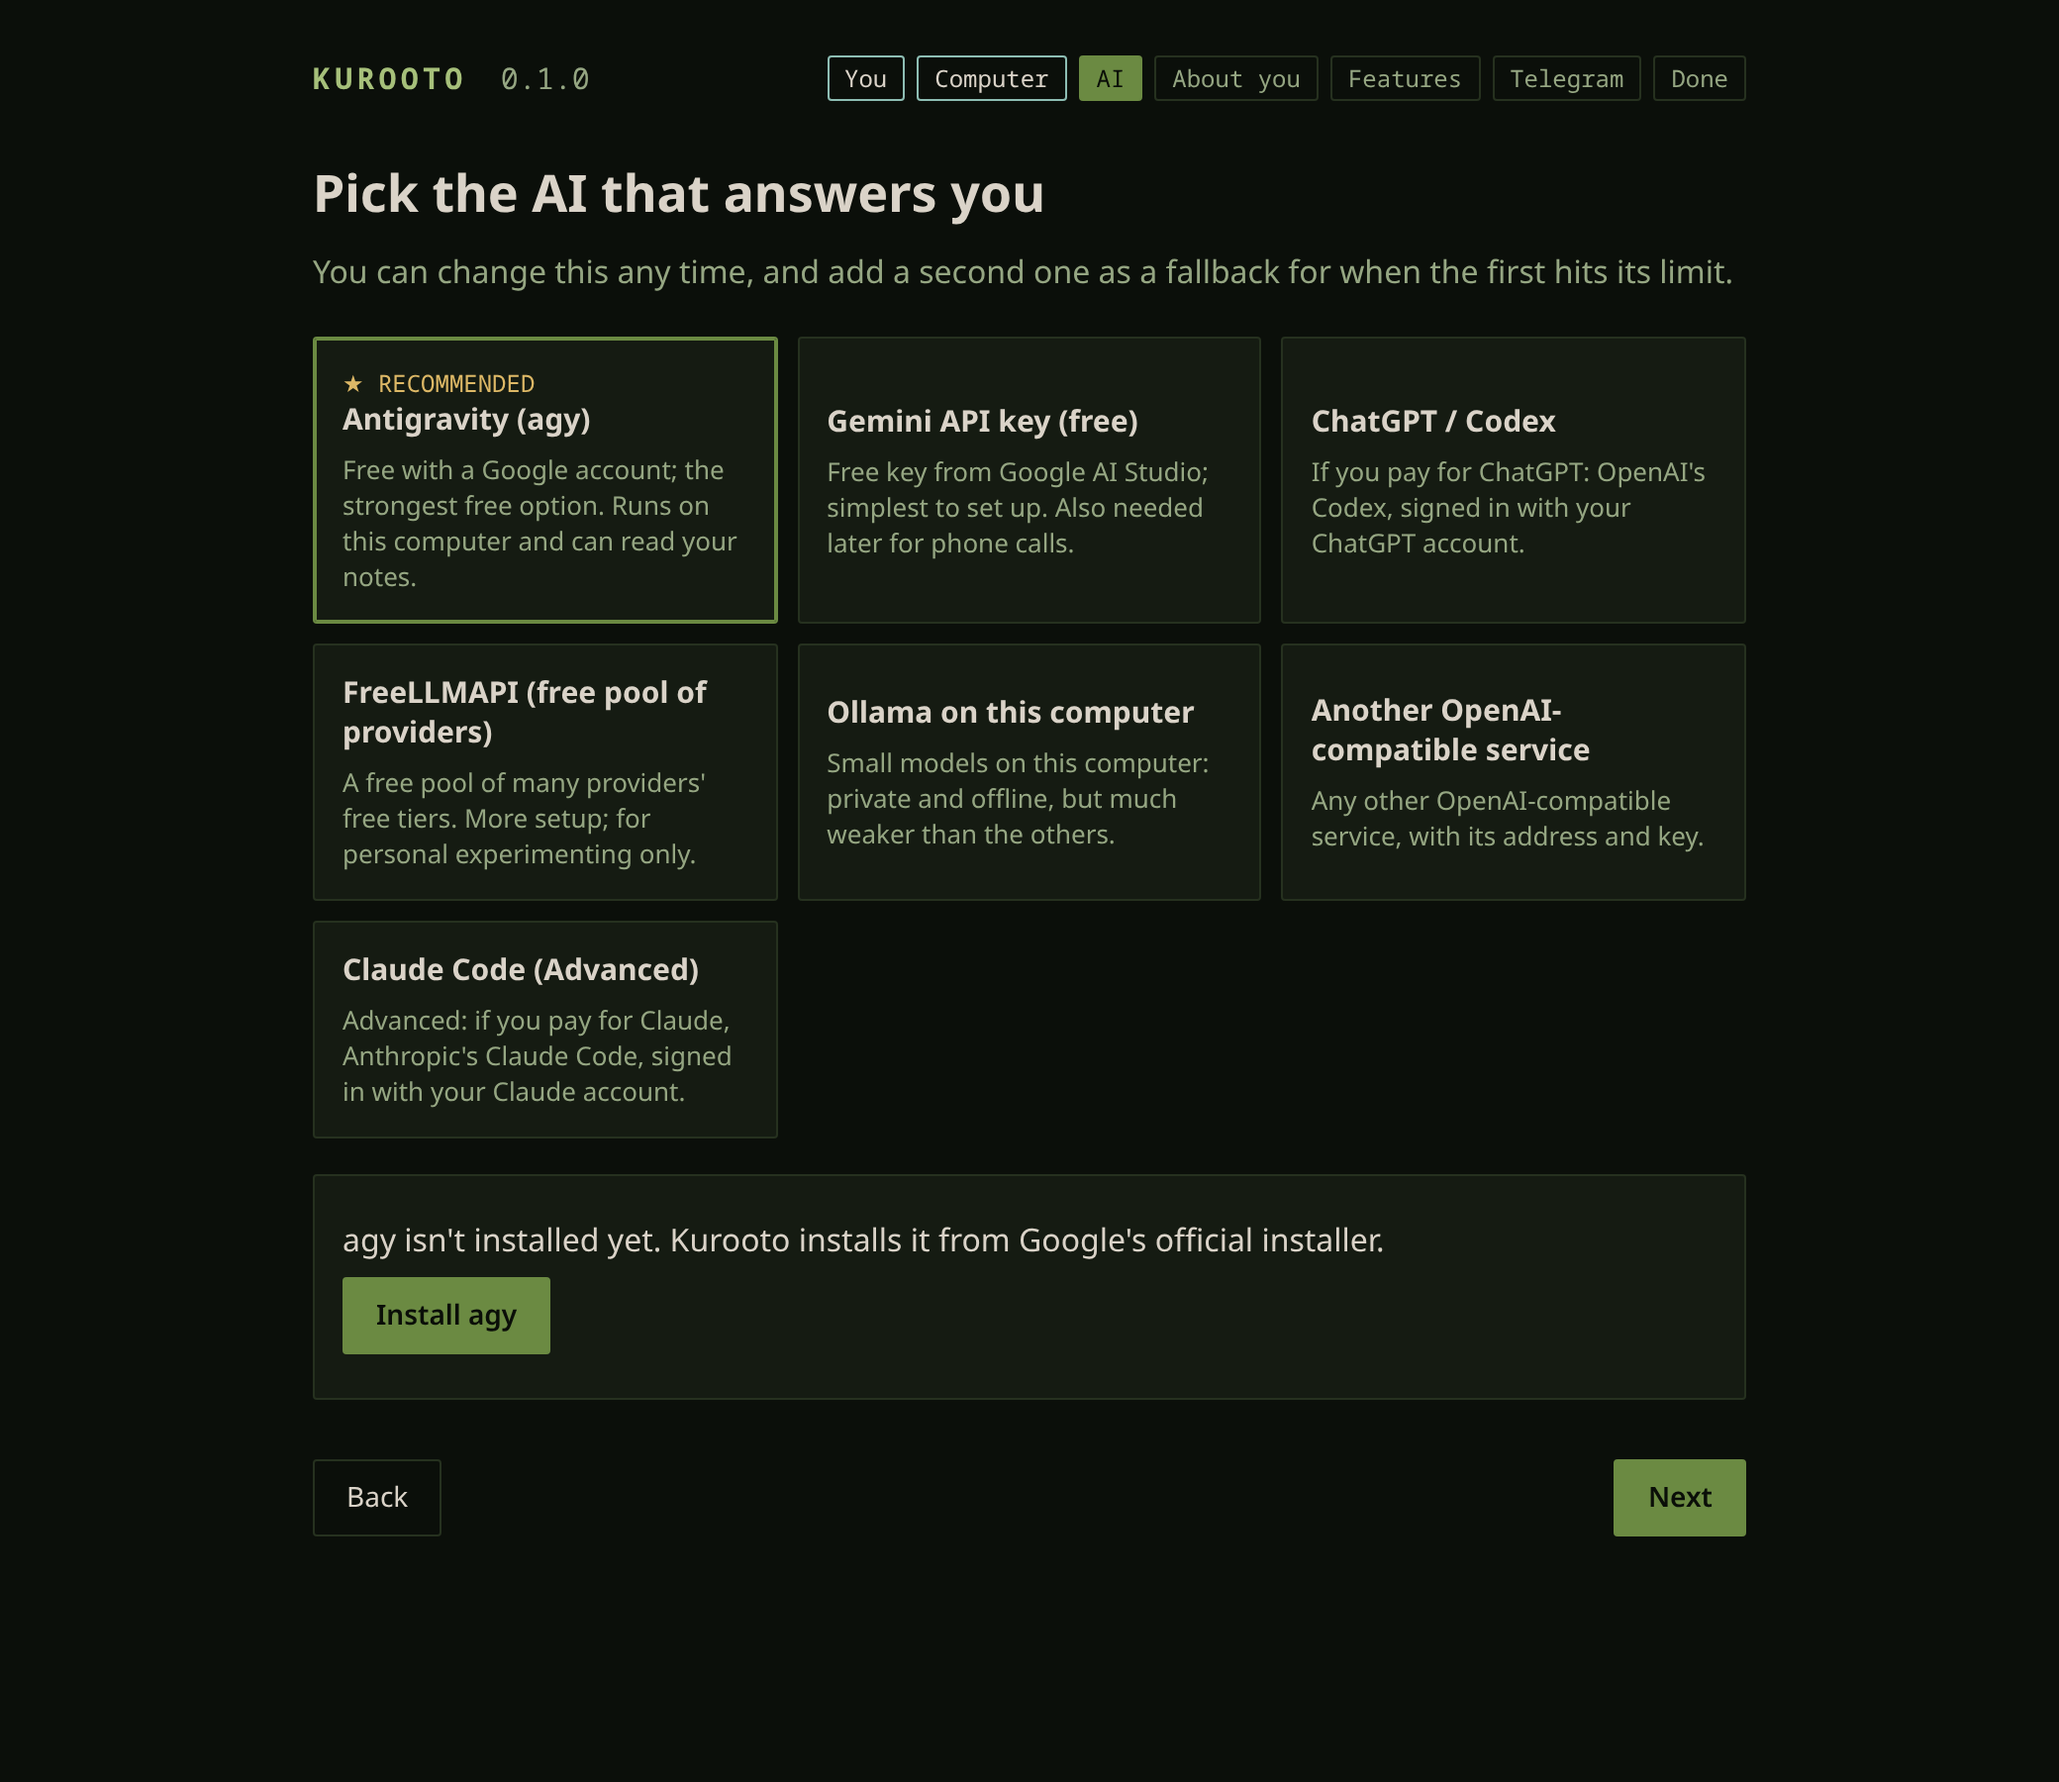
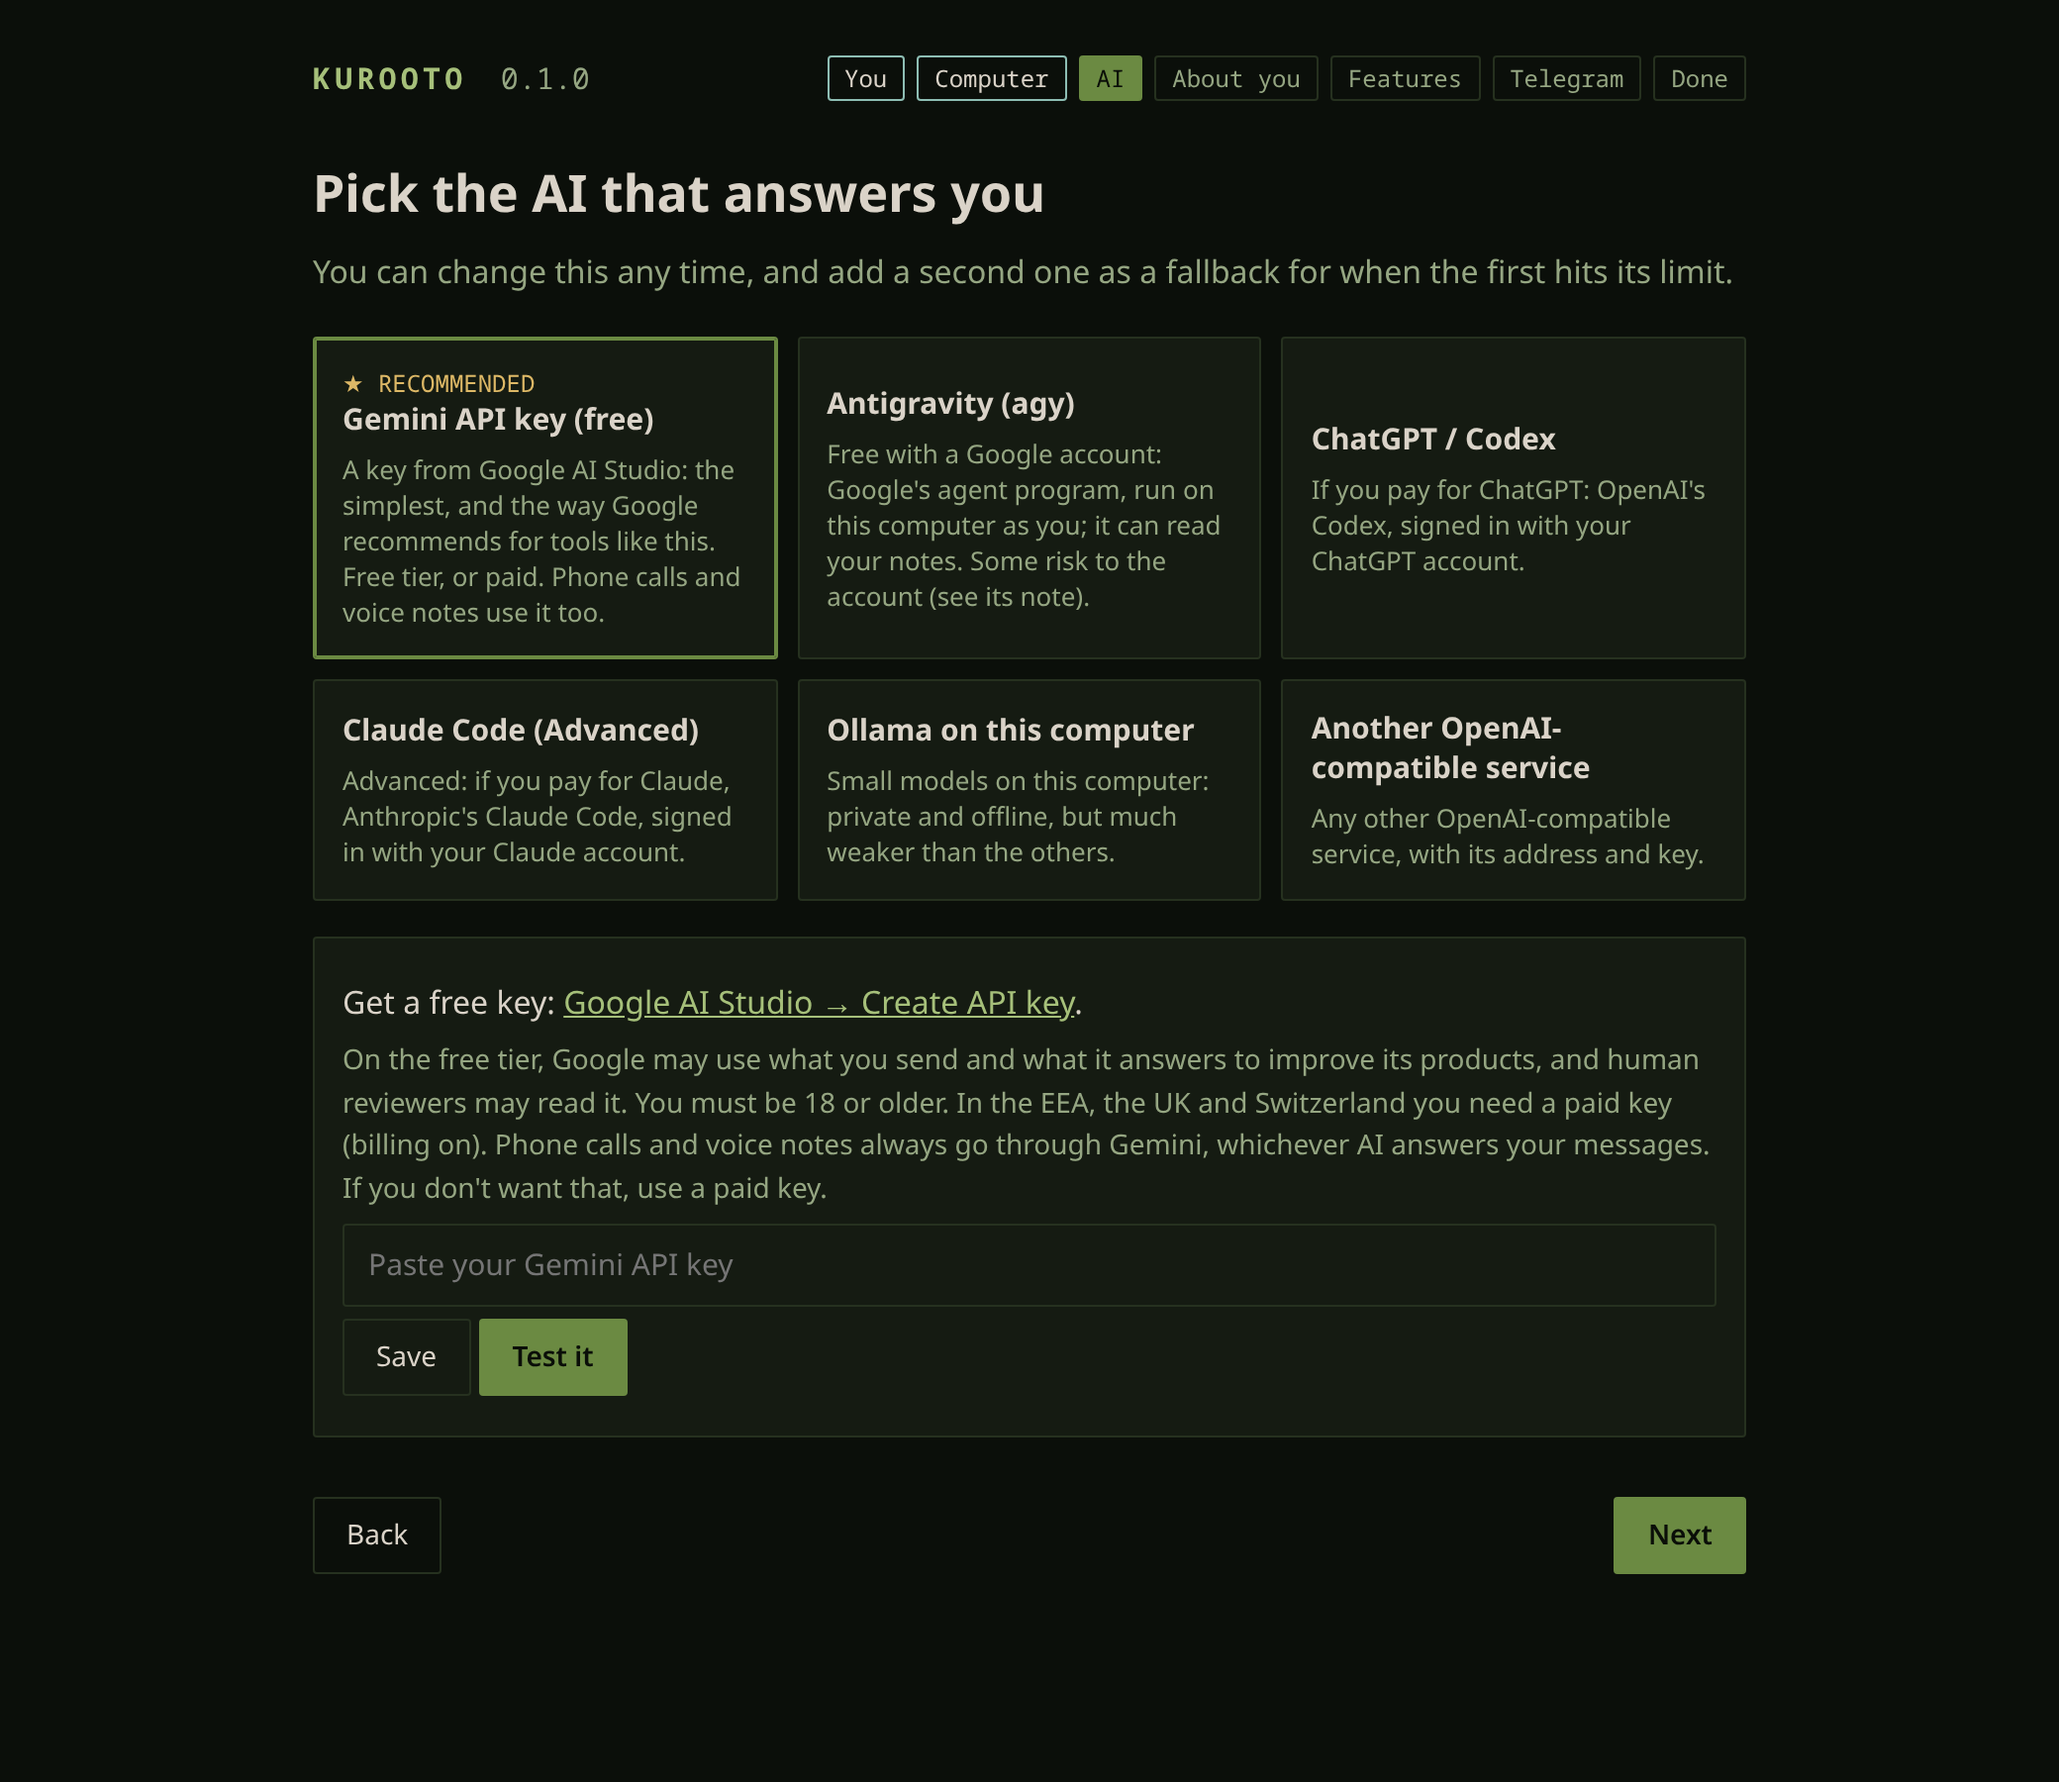
Showcase follow-ups: the Gemini key in the screenshots, docs merged into the manual
The example chat's AI answer carries the Gemini key's label, and the setup screenshots show the new
recommendation (re-rendered from the current wizard). The colours setting is in the manual's dashboard section,
the changelog has a Look part, PRIVACY says the screenshots are made-up data, and docs/next is gone. The
confidential mail page follows look.palette too; the landing page lists the Gemini key first.

diff --git a/installer/index.html b/installer/index.html
@@ -314,7 +314,7 @@ h1, h2, h3 { color: var(--text-bright); font-weight: 700; }
         <article class="interest-card"><span class="interest-num">02</span><h3 class="interest-title">It calls you</h3>
           <p class="interest-desc">Real voice calls on your own free call line: check-ins, reminders and a morning alarm, on Android or iPhone.</p></article>
         <article class="interest-card"><span class="interest-num">03</span><h3 class="interest-title">Your choice of AI</h3>
-          <p class="interest-desc">Antigravity, a free Gemini key, ChatGPT/Codex, Claude Code, FreeLLMAPI or local models with Ollama, with a fallback.</p></article>
+          <p class="interest-desc">A Gemini API key (recommended), Antigravity, ChatGPT/Codex, Claude Code, FreeLLMAPI or local models with Ollama, with a fallback.</p></article>
         <article class="interest-card"><span class="interest-num">04</span><h3 class="interest-title">Deadlines and study</h3>
           <p class="interest-desc">Subjects and timetable, a deadline radar, spaced-repetition quizzes, study time tracking and after-class notes.</p></article>
         <article class="interest-card"><span class="interest-num">05</span><h3 class="interest-title">Notes it can search</h3>

diff --git a/src/kurooto/web/static/confidential.html b/src/kurooto/web/static/confidential.html
@@ -1,5 +1,5 @@
 <!doctype html>
-<html lang="en">
+<html lang="en" data-palette="{{PALETTE}}">
 <head>
 <meta charset="utf-8">
 <meta name="viewport" content="width=device-width, initial-scale=1">

diff --git a/src/kurooto/web/server.py b/src/kurooto/web/server.py
@@ -136,8 +136,7 @@ class Server:
                     html = server.fill((static("morning.html") or b"").decode())
                     return self._send(200, html.encode(), TYPES[".html"])
                 if path == "/confidential":  # confidential mail summarised on this computer (google): read-only
-                    html = (static("confidential.html") or b"").decode()
-                    html = html.replace("{{TOKEN}}", server.token).replace("{{VERSION}}", __version__)
+                    html = server.fill((static("confidential.html") or b"").decode())
                     return self._send(200, html.encode(), TYPES[".html"])
                 if path in ("/", "/setup"):
                     done = server.app.settings.get("setup.done")

diff --git a/tests/unit/test_showcase.py b/tests/unit/test_showcase.py
@@ -25,7 +25,7 @@ def palette(page: str) -> str:
 
 def test_kuro_by_default_rose_on_request(web):
     app, srv = web
-    for path in ("/setup", "/morning"):
+    for path in ("/setup", "/morning", "/confidential"):
         code, page = call(srv, path, token=False)
         assert code == 200 and palette(page) == "kuro" and "{{" not in page
     app.settings.set("setup.done", True)

diff --git a/CHANGELOG.md b/CHANGELOG.md
@@ -98,7 +98,16 @@ Many new features, each off until you turn it on. The [manual](docs/MANUAL.md) h
 - Your add-ons: your own features, skills, prompts and default settings from a folder of yours.
 - On Linux, the dashboard only answers your own user account.
 
+**Look**
+- Kurooto's pages are deep green now, like the website: the setup page, the dashboard (its drawings too), the morning
+  page, and your call line's pages and icon. The old colours stay available: Settings → Look → `look.palette` = `rose`.
+- Warnings and errors have their own colours (amber and red), never the accent colour.
+- The dashboard's ring gives every feature a short label and its own colour.
+- The README and the website show the dashboard, the setup page, the morning page and your phone, from a demo with
+  made-up data.
+
 **Fixes**
+- The phone's call page: the "Waiting for you" link no longer grows to fill the screen.
 - "skip Friday's check-in" (and "no calls on Friday", "skipping LA on Friday") changed today's instead.
 - The phone app only ever got rings; the phone channel is now wired up.
 - The notes brain's sync no longer holds up the rest of Kurooto, and GBrain no longer checks for its own updates.

diff --git a/docs/MANUAL.md b/docs/MANUAL.md
@@ -1073,6 +1073,11 @@ that pulses when something happens; NOTES is a map of your notes and their links
 The **morning page** (`http://127.0.0.1:8770/morning`) shows today's plan from your daily note, with your classes,
 calendar, what's due, check-ins and open questions. The alarm opens it.
 
+**Colours:** Kurooto's pages (the setup page, the dashboard, the morning page, and your call line's pages on the phone)
+use deep greens, like the website. If you liked the earlier pink and rose colours better, set Settings → Look →
+`look.palette` to `rose` and reload the page; `kuro` (the default) brings the greens back. The setup and morning pages
+follow your system's light or dark mode; the dashboard is always dark. Your call line's pages on the phone stay green.
+
 Only your computer can open the dashboard; it needs a key that only this computer has. On Linux, where several people
 can be signed in to one computer at once, it also checks that the page and every request come from your own user
 account, and refuses them when it can't tell.

diff --git a/docs/PRIVACY.md b/docs/PRIVACY.md
@@ -6,6 +6,10 @@ only things Kurooto fetches from its own release page are updates, checked again
 
 Everything below goes to services you chose, under your own accounts.
 
+The screenshots in the README and on the website are of a demo with made-up data ("Sam") and stand-in services; none
+of them shows anyone's real notes, chats or accounts. The pages' colours (`look.palette`) are a setting on this
+computer only.
+
 ## Always (when the feature is on)
 
 | Feature | What leaves | Where to |
